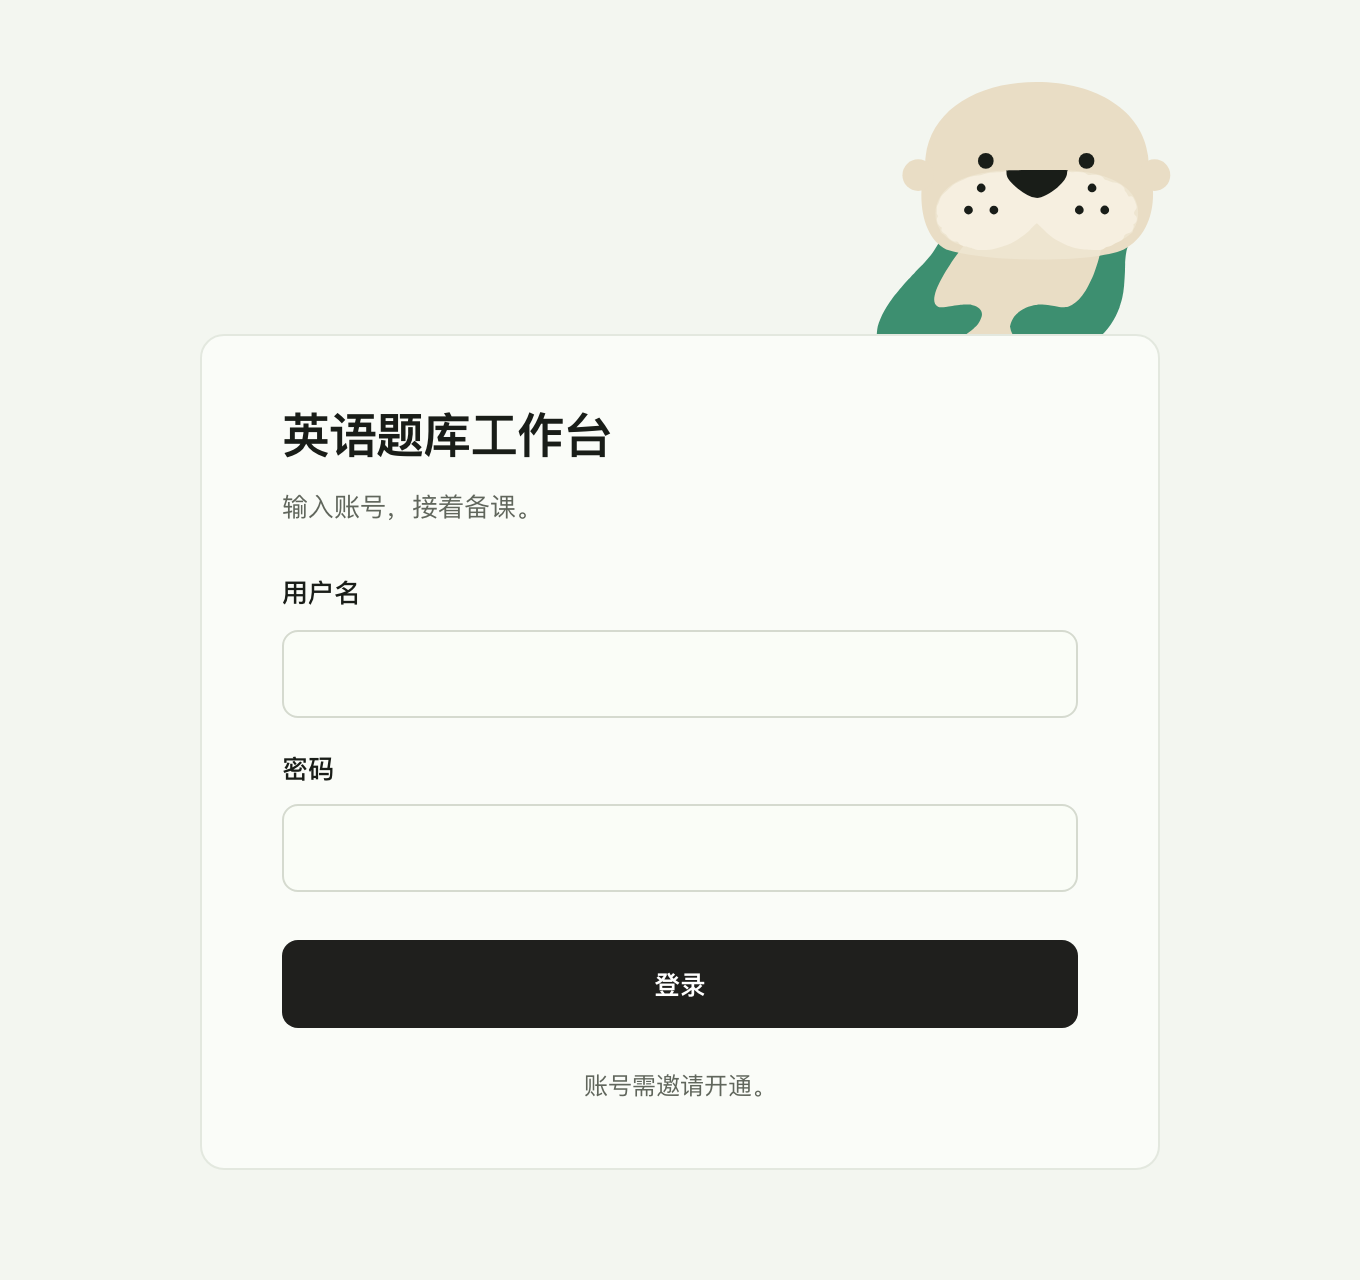
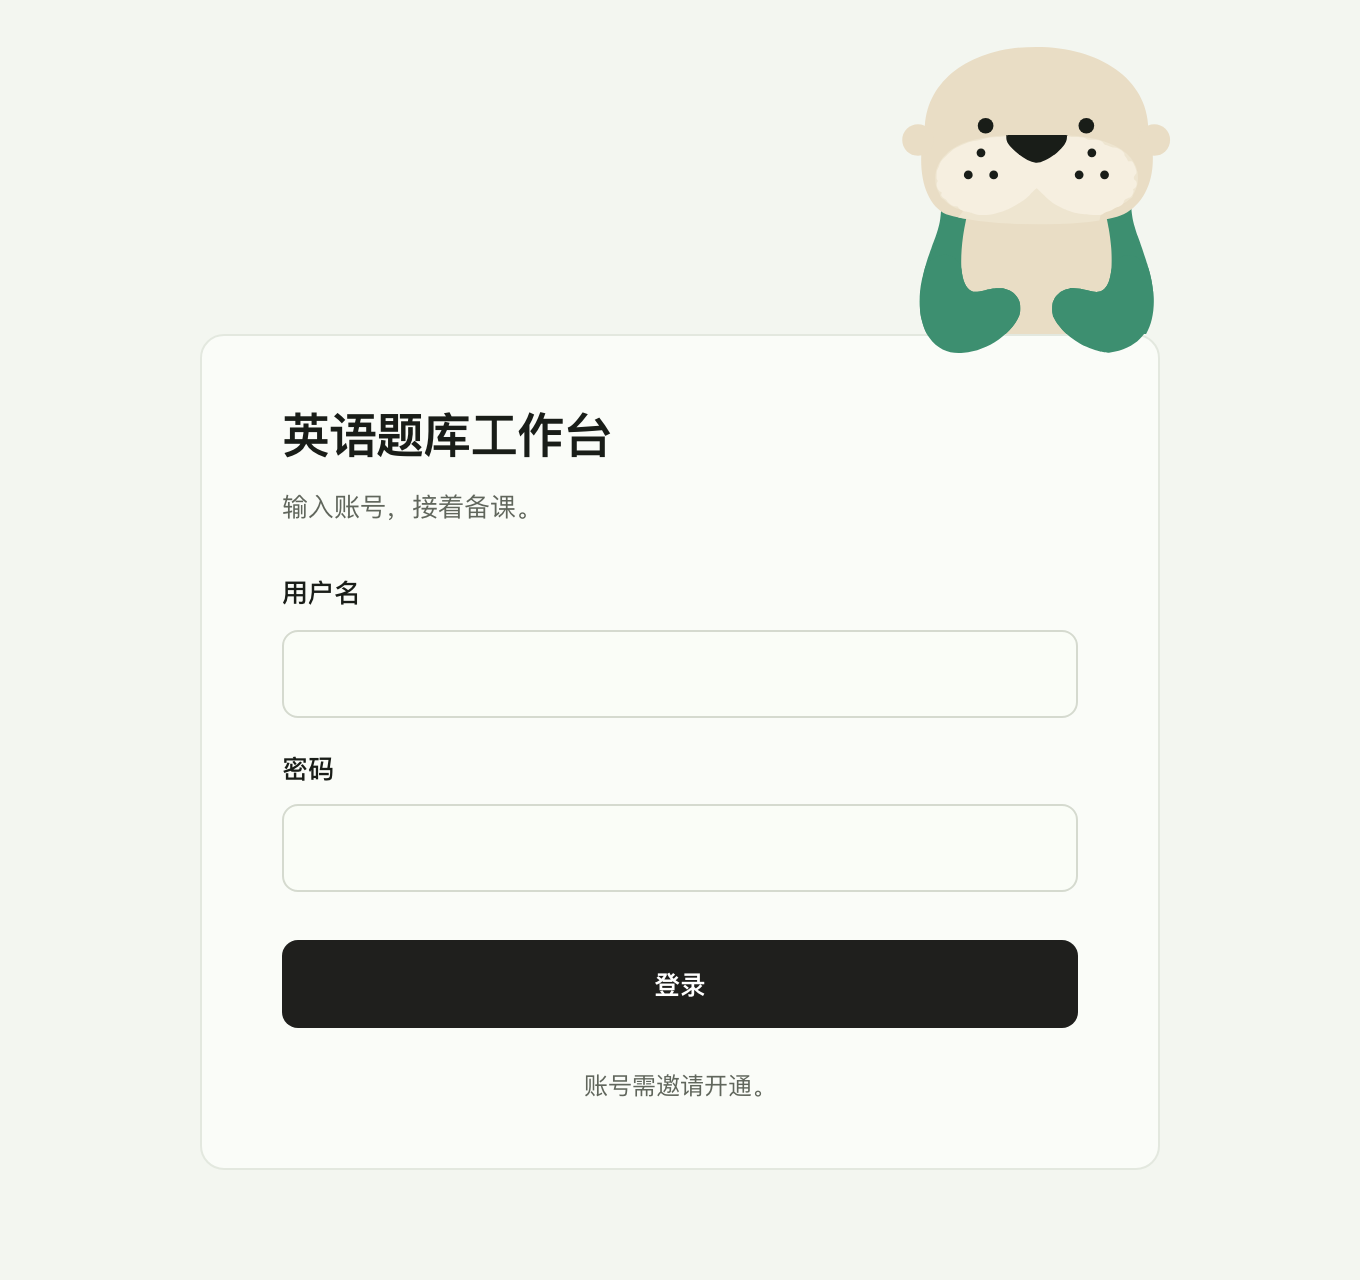
brand: Record the Owner's direction D round-2 picks (03 settled, 05 still open) and reshoot the login evidence with the P2 peek

Changed region(s): [[0.6485, 0.0312, 0.8647, 0.2812]]

diff --git a/BRAND.md b/BRAND.md
@@ -292,6 +292,7 @@ Owner 2026-09-15 给图标定的理念是「简约、圆润但同时清爽、语
       - **第 2 轮 · Astra（2026-10-13）**：沿用 Owner 定的 P2，只画 05 和 03，登录页不再画。05 的前臂留在身子两侧，掌面朝上、往外翻开，两边对称，中间空出一整块；掌根比肘部高，趾尖又比掌根高，手腕不再往下垂；越过边的是前臂，保留圆弧，不被卡片边切平；脚趾改成短圆趾，带米白趾尖。03 两只前爪托着一块墨色石头越过边，两边的趾尖扣住石头，整个头轻轻歪 3°。九个图层和 paws 都保留，03 在 paws 里另有 stone 图层。两张都交了 420px 高的标准图，并按 240px、150px 实际像素看了爪子：240px 看得出短圆趾和米白趾尖，150px 只剩小亮点，她不把「数得出几个趾」当作小图的标准。Astra 的判断：05 读得出「空着」，手腕不再垂，推荐这版；03 读得出「递给你看」，也推荐这版，但单看图仍可能读成「捧着一块石头」，不能保证读出「你看对不对」，要放进真实的确认卡片核对，不靠加问号、眉毛或气泡补意思。石头还是贝壳留到五个状态。这是最后一轮。画稿在 Paper「记忆点 · 方向 D · Astra · 第 2 轮」。
       - **第 2 轮 · Droid（2026-10-13）**：Droid 复制 Astra 的画板接画，Astra 的稿一笔没改，只把导出的矢量放进真实页面。05 放进 AI 找题的「没找到匹配」：首页搜「讲恐龙灭绝的阅读」，本地题库真的没有。03 放进 AI 找题的结果卡：现在没有单独的确认界面，结果卡里列着 AI 找到的卷和每套的推荐理由，老师挑了才加入草稿卷，最接近 §4.4 的「AI 结果请老师确认」。登录页 P2 用 Astra 的导出重拍，和第 1 轮一样。页内用空态的 150px，240px 只作对照。Astra 交代的两件事：① 越边：两处都不挡字。05 的肘部越过卡片边约 91 个母版单位（150px 下约 6px），03 的前爪约 125 个（约 9px），都落在卡片 20px 的上内边距里。页面要跟着改两处：「没找到匹配」现在只是一行字，没有卡片边，Droid 把它放进和结果卡同款的卡片，上面多留 32px，海獭露出卡片上沿约 90px；结果卡上面有一条通栏的提示，海獭的头和上身会压住它的右端，提示收到文字那么宽以后就什么都不挡。05 用 240px 更清楚，但上面要多留 86px，比一行字的卡片还抢眼。② 动作：05 读得出「这次没摸到」，两只前爪在卡片沿上往两边打开，中间空着，和下面那句「没找到匹配」连着读。03 的位置成立，动作读成「抱着一颗黑球」：石头约 420×300 个母版单位（150px 下约 29×21px），是全图最黑、最大的一块；米白高光让它像球；头歪 3°，150px 下两只眼睛只差约 1.6px，看不出歪。Droid 在副本上试了两版：石头和前爪下移 90，读成把球按在桌沿，不比原稿好；石头去掉高光、缩到 0.8，不再像球，但还是「拿着」，不是「递过来」。所以「递过来，你看对不对」靠正面一个姿势在 150px 里撑不起来，要靠语境：海獭出现在 AI 结果卡的边上，卡里写着找到了什么、为什么推荐。这和 Astra 的判断一致。画稿在 Paper「记忆点 · 方向 D · Droid · 第 2 轮」，批注卡在两块画板中间。
       - **第 2 轮的建议 · 提案（Droid）**：① 05 照 Astra 的稿定，页内 150px；做进页面时，「没找到匹配」那行字改成和结果卡同款的卡片，上面给海獭留约 90px。② 03 的姿势和位置照 Astra 的稿定：两爪和石头画在边的前面，靠右；结果卡上面的提示不再通栏，右边留出约 100px 宽、90px 高给海獭。③ 03 那件东西的样子（高光、大小、石头还是贝壳）和歪头的角度，到五个状态一起定，可以从去高光、缩到 0.8 起步（§4.4、§8 第 4 条）。④ 登录页继续 P2，Owner 看过以后重拍 §4.7 的截图。⑤ 方向 D 不再加轮次；做进代码是以后的事，这一轮没碰 app。
+      - **结果（Owner 2026-10-13，第 30 条）**：03 已定。Owner 在问卷里选了「照提案定，石头留到五个状态」：03 的姿势和位置照 Astra 的稿子，两只前爪和石头画在边的前面，靠右；结果卡上面的提示不占满整行；石头的样子（高光、大小、石头还是贝壳）和歪头的角度留到五个状态。05 没定：Owner 说「先不定，再看看」，画稿和实景照旧在两块第 2 轮画板里。登录页截图选「现在重拍」，已用 P2 重拍（§4.7）。还是提案的：03、05 在页内用 150px；05 居中，「没找到匹配」改成卡片。
   - **物种改成海獭以后 · 已定（Owner 2026-10-13 同意 Droid 的提议，第 25 条）**：先把母版改成海獭，再接着试记忆点。顺序改成：A（已定）→ 海獭版母版（并入 B）→ D → 5 秒测试；C 作废。
     - **海獭版母版 · 已定，已换（Owner 2026-10-13，第 27、28 条）**：从现在的母版（e5 眼睛、A2 胡须点）出发，照真实海獭改形体，最多来回两轮（第 20 条），第 2 轮是最后一轮。
       - **原样带过去**：眼睛、鼻子、∴ 胡须点，§1.5 的颜色，七个部位的图层名，平涂无描边，基础形象空手、爪子搭在胸前。
@@ -340,7 +341,7 @@ Owner 2026-09-15 给图标定的理念是「简约、圆润但同时清爽、语
 
 **探头 · 已定（Owner 2026-10-13，第 29 条）**：03 待确认和 05 没找到从卡片边探头，姿势用 P2，两只前爪画在边的前面（§4.2 方向 D、§4.7）；02 找题中、04 完成和空态不探头。表里 01 的产品时刻原来写着空态和登录页；登录页改用 P2 探头以后，01 只留给空态 · 提案（Droid）。
 
-**探头的实景 · 提案（Droid，方向 D 第 2 轮）**：05 的摊手在 150px 读得出「空着」。03 的石头在 150px 读成一颗黑球，「你看对不对」要靠 AI 结果卡的语境，不加问号、眉毛或气泡。石头的样子（高光、大小）和歪头的角度，和下一段的「石头还是贝壳」一起，到五个状态再定（§4.2 方向 D）。
+**探头的实景（方向 D 第 2 轮）**：03 的姿势和位置已定（Owner 2026-10-13，第 30 条）：两只前爪和石头画在边的前面，靠右，结果卡上面的提示不占满整行。石头在 150px 读成一颗黑球，它的样子（高光、大小）和歪头的角度，和下一段的「石头还是贝壳」一起，到五个状态再定（同一条）。「你看对不对」靠 AI 结果卡的语境，不加问号、眉毛或气泡，是两人一致的提案。05 的摊手在 150px 读得出「空着」，Owner 还没定（§4.2 方向 D）。
 
 **物种改成海獭以后 · 提案（Droid）**：02、04 的仰躺漂浮本来就是海獭的习性，不变。01 原来是「坐着，把小石子在两只前爪间轻轻抛着玩」，抛石子是小型水獭的习性，改成捧着石头转；03 的「坐起来」改成「立在水里」。还有一处画状态时再定：海獭的石头是敲贝壳的工具，摸到的是贝壳。照这个，03 递给老师的更像一枚贝壳，石头留在皮袋里。加不加贝壳这件道具，到时候和 §4.5 一起定。
 
@@ -384,11 +385,11 @@ Owner 2026-09-15 给图标定的理念是「简约、圆润但同时清爽、语
 | App 图标 | 头像加竹青圆角底 | 192 / 64 / 32 / 16；32 和 16 要用简化版 |
 | 空态 | 全身 | 150px 高 |
 | 登录页 | 全身，用 P2 探头：在登录框后面露出头和胸口，两只前爪画在框沿前面（第 29 条） | 240px 高 |
-| AI 找题：03 待确认、05 没找到 | 全身，用 P2 探头（第 29 条）：从结果卡或「没找到匹配」卡片的上沿露出，03 靠右、05 居中；位置和尺寸是提案（Droid，方向 D 第 2 轮） | 150px 高 |
+| AI 找题：03 待确认、05 没找到 | 全身，用 P2 探头（第 29 条），从结果卡或「没找到匹配」卡片的上沿露出。03 靠右，结果卡上面的提示不占满整行（第 30 条）；05 居中是提案，Owner 还没定 | 150px 高（提案，Droid，方向 D 第 2 轮） |
 
-<img src="design/brand-2026-10-13/evidence/login.png" width="340" alt="登录页试用（海獭版母版）"> <img src="design/brand-2026-10-13/evidence/my-space-empty.png" width="520" alt="个人空间空态试用（海獭版母版）"> <img src="design/brand-2026-10-13/evidence/topbar.png" width="300" alt="顶栏试用（海獭版母版）">
+<img src="design/brand-2026-10-13/evidence/login.png" width="340" alt="登录页试用（海獭版母版，P2 探头）"> <img src="design/brand-2026-10-13/evidence/my-space-empty.png" width="520" alt="个人空间空态试用（海獭版母版）"> <img src="design/brand-2026-10-13/evidence/topbar.png" width="300" alt="顶栏试用（海獭版母版）">
 
-登录页这张截图还是母版从框后露出的样子，不是 P2。P2 的登录页实景在 Paper「记忆点 · 方向 D · Droid · 第 2 轮」的「交接」（和第 1 轮的 D2 一样），03、05 的实景在同一块画板的 R1–R3；Owner 看过以后再重拍。
+登录页这张截图 2026-10-13 用 P2 重拍了（第 30 条）：框取和原来一样，只换了海獭，身子在登录框后面，两只前爪画在框沿前面，头还在原来的位置。03、05 的实景在 Paper「记忆点 · 方向 D · Droid · 第 2 轮」的 R1–R3。
 
 ### 4.8 两种画法 · 提案
 
@@ -514,13 +515,14 @@ Owner 2026-09-15 给图标定的理念是「简约、圆润但同时清爽、语
 27. **海獭版母版选 D2**：Owner 看过 Astra 和 Droid 的第 2 轮后说「那我决定是你推荐的那个」，即 Droid 的建议：毛色用 D2，头、喉咙、胸口、肚子连成一片浅色，竹青只留在背、手臂、尾巴和脚上；只露头时（顶栏、App 图标）垫竹青；宽鼻、侧耳、尾巴、带趾的脚和 F2 照 Astra 的 S+；换成海獭版母版。随后 Owner 问 W+ 和 D2 之间能不能再白一点，浅色见第 28 条。
 28. **海獭版母版的浅色**：Droid 把那片浅色从浅沙往暖米白走了三档（往白 ¼、往白 ½、米白），和 D2、W+ 一起放进真实页面。Owner 看过后选往白 ½ `#E9DDC5`，即 Droid 的建议；§1.5 记作沙白，是米白色阶上最深的一档。母版换成海獭版，`evidence/` 重拍（§4.2）。
 29. **记忆点方向 D**：Owner 看过 Astra 和 Droid 的第 1 轮后，选了 Droid 的建议：D 不当所有出场的规矩，只在登录页、03 待确认、05 没找到这三处从卡片边探头，其余地方不探头；姿势用 P2，两只前爪画在边的前面，不用 P1（§4.2、§4.4、§4.7）。
+30. **记忆点方向 D 第 2 轮**：Owner 看过 Astra 和 Droid 的第 2 轮后，在问卷里选了：03 待确认「照提案定，石头留到五个状态」，即姿势和位置照 Astra 的稿子，两只前爪和石头画在边的前面，靠右，结果卡上面的提示不占满整行；石头的样子（高光、大小、石头还是贝壳）和歪头的角度留到五个状态。05 没找到「先不定，再看看」。登录页截图「现在重拍」，已用 P2 重拍（§4.2、§4.4、§4.7）。
 
 ## 8. 接下来（按顺序）
 
 1. Owner 审 2026-10-13 的三份文件改写和清点表的更新。Owner 2026-10-13 选先本地提交、不推送；PR 等记忆点定了再一起开。
-2. 记忆点（主题 1，Paper 页「主题 1 · 记忆点」）：按第 20 条的方式和 Astra 协作（§4.2）。方向 A 已定（第 23 条）。物种改成海獭以后（第 24 条），先做海獭版母版，方向 B 并进来。第 1 轮 Astra 和 Droid 都交了；Owner 看了说像海豹，定第 2 轮画三条路，每条再试大鼻子（第 26 条，§4.2）。第 2 轮两人也都交了：Astra 推荐 S+ 浅沙头，Owner 看了说像「绿衣服，然后沙环领」；Droid 推荐 D2，把肚皮也换成浅沙，头和肚子连成一片。Owner 选了 D2（第 27 条），又问能不能再白一点；Droid 做了往白三档，Owner 选了往白 ½（第 28 条）。母版已换成海獭版，evidence 已重拍（§4.2）。方向 D 探头出场的第 1 轮两人也都交了：Astra 推荐 P1 + E1 + R2；Droid 把前爪挪到边的前面（P2），建议 D 只用在登录页、03 待确认和 05 没找到，空态不探头。Owner 选了 Droid 的建议（第 29 条，§4.2）。方向 D 第 2 轮（最后一轮）两人也都交了：Astra 画了 05 向上摊开的短爪和 03 双爪托石越边；Droid 放进 AI 找题的真实页面，05 读得出空着，03 的位置成立、石头读成黑球，建议 05、03 都照 Astra 的稿定，石头的样子留到五个状态（§4.2）。下一步是 Owner 看 03、05 和登录页 P2；看过以后，登录页截图用 P2 重拍（§4.7）。再往后是 5 秒测试，方向 C 作废（第 25 条）。
+2. 记忆点（主题 1，Paper 页「主题 1 · 记忆点」）：按第 20 条的方式和 Astra 协作（§4.2）。方向 A 已定（第 23 条）。物种改成海獭以后（第 24 条），先做海獭版母版，方向 B 并进来。第 1 轮 Astra 和 Droid 都交了；Owner 看了说像海豹，定第 2 轮画三条路，每条再试大鼻子（第 26 条，§4.2）。第 2 轮两人也都交了：Astra 推荐 S+ 浅沙头，Owner 看了说像「绿衣服，然后沙环领」；Droid 推荐 D2，把肚皮也换成浅沙，头和肚子连成一片。Owner 选了 D2（第 27 条），又问能不能再白一点；Droid 做了往白三档，Owner 选了往白 ½（第 28 条）。母版已换成海獭版，evidence 已重拍（§4.2）。方向 D 探头出场的第 1 轮两人也都交了：Astra 推荐 P1 + E1 + R2；Droid 把前爪挪到边的前面（P2），建议 D 只用在登录页、03 待确认和 05 没找到，空态不探头。Owner 选了 Droid 的建议（第 29 条，§4.2）。方向 D 第 2 轮（最后一轮）两人也都交了：Astra 画了 05 向上摊开的短爪和 03 双爪托石越边；Droid 放进 AI 找题的真实页面，05 读得出空着，03 的位置成立、石头读成黑球，建议 05、03 都照 Astra 的稿定，石头的样子留到五个状态（§4.2）。Owner 定了 03，石头留到五个状态；05 先不定、再看看；登录页截图已用 P2 重拍（第 30 条，§4.7）。下一步：05 等 Owner 再看。再往后是 5 秒测试，方向 C 作废（第 25 条）。
 3. 三视图与比例规范（主题 2，记忆点定了再做）。
-4. 五个状态：先用 Arrow 小批试画，再收成矢量。状态 03 递石头还是贝壳，连同那件东西在 150px 的样子（高光、大小）和歪头的角度，到这一步定（§4.4、§4.2 方向 D 第 2 轮）。
+4. 五个状态：先用 Arrow 小批试画，再收成矢量。状态 03 递石头还是贝壳，连同那件东西在 150px 的样子（高光、大小）和歪头的角度，到这一步定（第 30 条，§4.4、§4.2 方向 D 第 2 轮）。
 5. 命名：长名单 → 短名单 → 查重 → 字标草稿放进真实页面。字标草稿做三版：Inter、Paper Mono、在 Paper Mono 上改字（§3.3）。口号和名字一起定，要能跟着长到教育 agent 阶段（§1.2）。名字和形象的联系按海獭重看：「题塘」「獭祭」都对不上海獭（§2）。
 6. 标志：图形标志、16px 简化版、字标、组合、按场合的用法、禁止用法。
 7. 品牌色板定稿，包括深竹青的差事和对比度。
